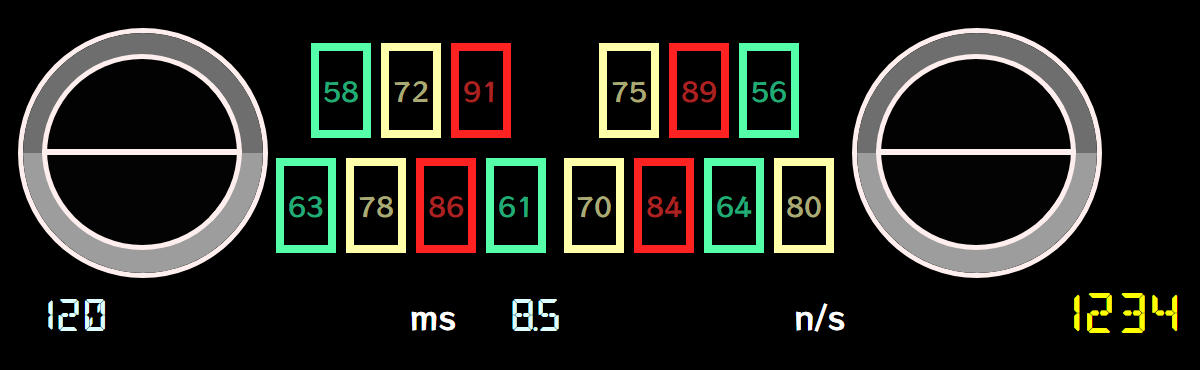
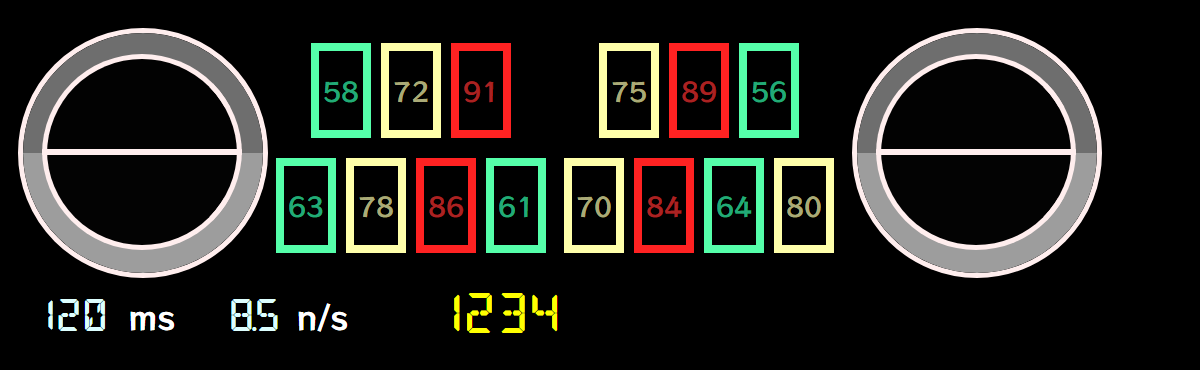
IIDXDP色分けありのレイアウトについて、統計情報を左寄せ

diff --git a/html/iidx_dp_color.html b/html/iidx_dp_color.html
@@ -66,7 +66,7 @@
             </div>
         </div>
         <div>
-            <table class="info">
+            <table class="info info-left">
                 <tr>
                     <td><release></release></td><td>ms</td>
                     <td><density></density></td><td>n/s</td>

diff --git a/html/iidx_color.css b/html/iidx_color.css
@@ -30,6 +30,11 @@ table.info {
     table-layout: auto;
 }
 
+/* DPでは横幅に合わせて各項目が離れすぎないよう、統計情報を左側へまとめる。 */
+table.info.info-left {
+    width: auto;
+}
+
 .btn {
     width: 50px;
     height: 85px;
